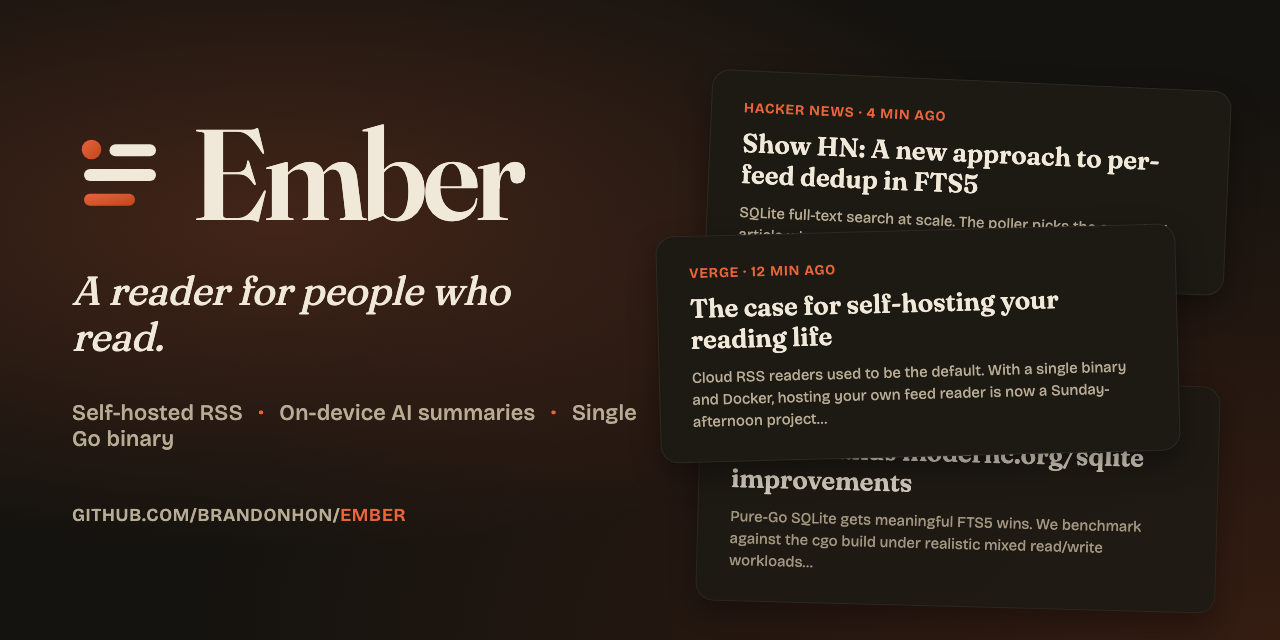
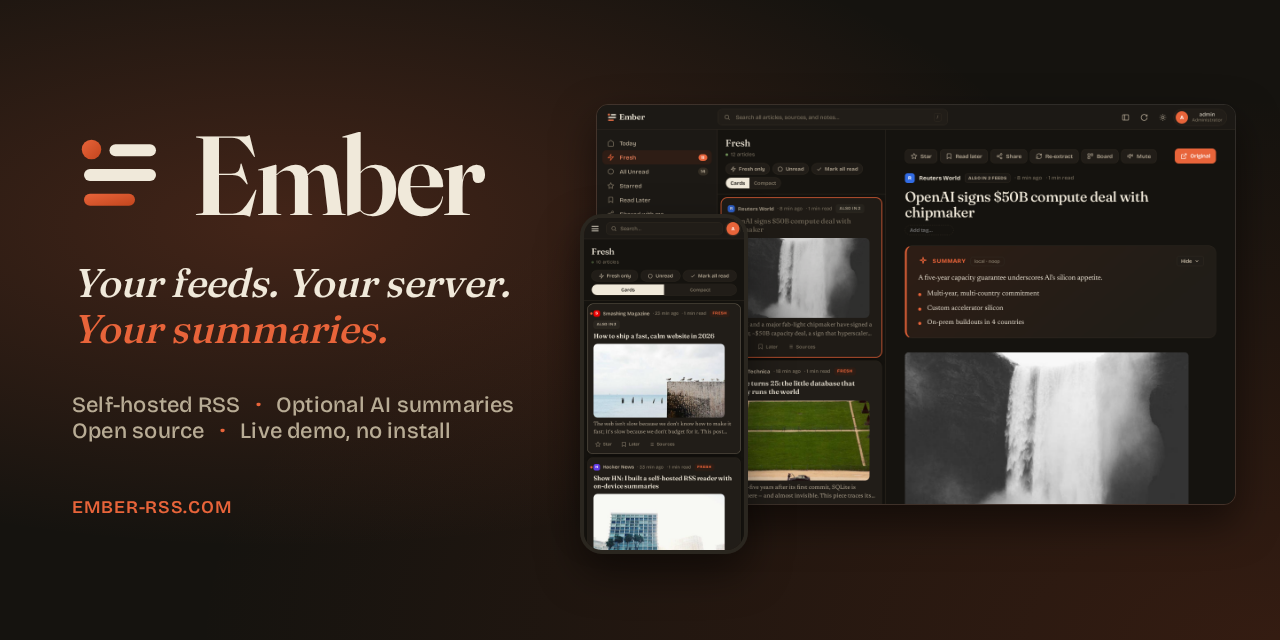
docs: refresh social preview to match the new landing page
Headline and screenshots now mirror Landing.vue; drops the inaccurate
"on-device AI summaries" claim (hosted backends are supported) and points
at ember-rss.com instead of the GitHub URL.

diff --git a/web/scripts/social-preview.html b/web/scripts/social-preview.html
@@ -3,7 +3,8 @@
   Source for docs/public/social-preview.png — the 1280×640 OG card that
   shows when github.com/brandonhon/ember is shared on Twitter, Slack,
   Discord, etc. Rendered by web/scripts/social-preview.mjs (Playwright).
-  Brand colors match the dark theme in web/src/App.svelte.
+  Brand colors match the dark theme in web/src/App.svelte; copy and
+  screenshots mirror the docs landing page (docs/.vitepress/theme/Landing.vue).
 -->
 <html lang="en">
 <head>
@@ -30,16 +31,16 @@
     color: var(--ink);
     font-family: "Bricolage Grotesque", system-ui, sans-serif;
     display: grid;
-    grid-template-columns: 1fr 1fr;
+    grid-template-columns: 500px 1fr;
     align-items: center;
-    padding: 64px 72px;
+    padding: 64px 0 64px 72px;
   }
   .left { display: flex; flex-direction: column; gap: 24px; }
   .brand { display: flex; align-items: center; gap: 24px; }
   .logo { width: 96px; height: 96px; }
   .wordmark {
     font-family: "Fraunces", "Times New Roman", serif;
-    font-size: 128px;
+    font-size: 112px;
     font-weight: 600;
     line-height: 0.95;
     letter-spacing: -0.03em;
@@ -48,7 +49,7 @@
   .tagline {
     font-family: "Fraunces", "Times New Roman", serif;
     font-size: 40px;
-    font-weight: 400;
+    font-weight: 500;
     font-style: italic;
     line-height: 1.15;
     color: var(--ink);
@@ -76,44 +77,20 @@
     font-weight: 600;
   }
   .footer .accent { color: var(--ember); }
+  .tagline .accent { color: var(--ember); }
 
-  /* Right column: stylized "feed cards" abstracting the reader UI without
-     needing a real screenshot. Three stacked cards with offset perspective
-     so the eye reads them as "list of articles". */
-  .right { position: relative; height: 480px; }
-  .card {
+  /* Right column: real screenshots (dark captures) — the desktop
+     three-pane reader with the phone view overlapping its corner, the same
+     composition as the landing-page hero. */
+  .right { position: relative; height: 512px; }
+  .shot {
     position: absolute;
-    width: 520px;
-    background: var(--paper-2);
-    border: 1px solid rgba(240, 233, 218, 0.08);
-    border-radius: 18px;
-    padding: 28px 32px;
-    box-shadow: 0 12px 28px rgba(0, 0, 0, 0.35);
+    border: 1px solid rgba(240, 233, 218, 0.12);
+    box-shadow: 0 18px 40px rgba(0, 0, 0, 0.5);
+    display: block;
   }
-  .card .meta {
-    font-size: 14px;
-    color: var(--ember);
-    font-weight: 600;
-    letter-spacing: 0.06em;
-    text-transform: uppercase;
-    margin-bottom: 12px;
-  }
-  .card .title {
-    font-family: "Fraunces", serif;
-    font-size: 26px;
-    font-weight: 600;
-    line-height: 1.2;
-    color: var(--ink);
-    margin-bottom: 12px;
-  }
-  .card .summary {
-    font-size: 15px;
-    line-height: 1.45;
-    color: var(--muted);
-  }
-  .card.c1 { top: 0;   right: -20px; transform: rotate(2.5deg); }
-  .card.c2 { top: 150px; right: 30px;  transform: rotate(-1.5deg); z-index: 2; }
-  .card.c3 { top: 300px; right: -10px; transform: rotate(1.5deg); opacity: 0.85; }
+  .desktop { width: 640px; top: 40px; left: 24px; border-radius: 12px; }
+  .phone { width: 168px; height: 340px; object-fit: cover; object-position: top; top: 150px; left: 8px; border-radius: 22px; border-width: 4px; border-color: #2a261f; }
 </style>
 </head>
 <body>
@@ -133,31 +110,17 @@
       </svg>
       <div class="wordmark">Ember</div>
     </div>
-    <div class="tagline">A reader for people who read.</div>
+    <div class="tagline">Your feeds. Your server.<br /><span class="accent">Your summaries.</span></div>
     <div class="subline">
-      Self-hosted RSS <span class="dot">·</span>
-      On-device AI summaries <span class="dot">·</span>
-      Single Go binary
+      Self-hosted RSS <span class="dot">·</span> Optional AI summaries<br />
+      Open source <span class="dot">·</span> Live demo, no install
     </div>
-    <div class="footer">github.com/brandonhon/<span class="accent">ember</span></div>
+    <div class="footer"><span class="accent">ember-rss.com</span></div>
   </div>
 
   <div class="right">
-    <div class="card c1">
-      <div class="meta">Hacker News · 4 min ago</div>
-      <div class="title">Show HN: A new approach to per-feed dedup in FTS5</div>
-      <div class="summary">SQLite full-text search at scale. The poller picks the canonical article when the same item shows up in multiple feeds…</div>
-    </div>
-    <div class="card c2">
-      <div class="meta">Verge · 12 min ago</div>
-      <div class="title">The case for self-hosting your reading life</div>
-      <div class="summary">Cloud RSS readers used to be the default. With a single binary and Docker, hosting your own feed reader is now a Sunday-afternoon project…</div>
-    </div>
-    <div class="card c3">
-      <div class="meta">LWN · 1 h ago</div>
-      <div class="title">Go 1.26 lands modernc.org/sqlite improvements</div>
-      <div class="summary">Pure-Go SQLite gets meaningful FTS5 wins. We benchmark against the cgo build under realistic mixed read/write workloads…</div>
-    </div>
+    <img class="shot desktop" src="../../docs/public/screenshots/hero-2-threepane-summary-dark.png" alt="" />
+    <img class="shot phone" src="../../docs/public/screenshots/reader-mobile-dark.png" alt="" />
   </div>
 </body>
 </html>
